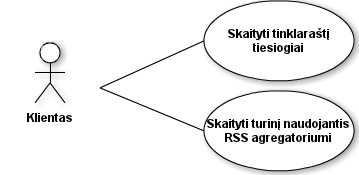
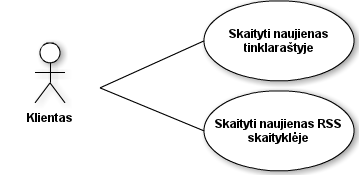
Vidinės analizės užduotys pakeistos, naudojimo scenarijai

Changed region(s): [[0.5515, 0.6571, 0.9805, 0.8286], [0.6128, 0.1429, 0.9192, 0.3143]]

diff --git a/projektas/2.5_sistemos_naudojimo_scenarijus.md b/projektas/2.5_sistemos_naudojimo_scenarijus.md
@@ -2,9 +2,49 @@
 
 ## Scenarijus
 
-## Sistemos teikiama nauda
+\begin{figure}[ht]
+    \centering
+    \includegraphics[width=0.8\textwidth]{projektas/img/pren_pop_salt.png}
+    \caption{Užduotis: Prenumeruoti populiarius šaltinius}
+\end{figure}
+
+\FloatBarrier
 
 \begin{figure}[ht]
+    \centering
+    \includegraphics[width=0.8\textwidth]{projektas/img/perz_pop_salt.png}
+    \caption{Užduotis: Peržiūrėti populiarius šaltinius}
+\end{figure}
+
+\FloatBarrier
+
+\begin{figure}[ht]
+    \centering
+    \includegraphics[width=0.8\textwidth]{projektas/img/prideti_filtra.png}
+    \caption{Užduotis: Pridėti filtrą}
+\end{figure}
+
+\FloatBarrier
+
+\begin{figure}[ht]
+    \centering
+    \includegraphics[width=0.8\textwidth]{projektas/img/susipaz_su_sist_naud.png}
+    \caption{Užduotis: Susipažinti su sistemos naudojimu}
+\end{figure}
+
+\FloatBarrier
+
+\begin{figure}[ht]
+    \centering
+    \includegraphics[width=0.8\textwidth]{projektas/img/keisti_pasal_filtra.png}
+    \caption{Užduotis: Keisti/pašalinti filtrą}
+\end{figure}
+
+\FloatBarrier
+
+## Sistemos teikiama nauda
+
+\begin{figure}[!ht]
     \centering
     \includegraphics[width=0.8\textwidth]{projektas/img/sist_teikiama_naud.png}
     \caption{Sistemos teikiama nauda}

diff --git a/projektas/2.2_vidine_analize.md b/projektas/2.2_vidine_analize.md
@@ -37,7 +37,7 @@ Nagrinėjame internetinių įrašų ir naujienų skaitymo būdus. Pagrindiniai i
 \begin{figure}[ht]
     \centering
     \includegraphics[width=1.05\textwidth]{projektas/img/uzduotys_ties.png}
-    \caption{Užduotys, skaitant naujienas tiesiogiai}
+    \caption{Užduotys, skaitant naujienas tiesiogiai tinklaraštyje}
 \end{figure}
 
 \FloatBarrier
@@ -45,7 +45,7 @@ Nagrinėjame internetinių įrašų ir naujienų skaitymo būdus. Pagrindiniai i
 \begin{figure}[ht]
     \centering
     \includegraphics[width=1.05\textwidth]{projektas/img/uzduotys.png}
-    \caption{Užduotys, skaitant naujienas RSS agregatoriuje}
+    \caption{Užduotys, skaitant naujienas RSS skaityklėje}
 \end{figure}
 
 \FloatBarrier
